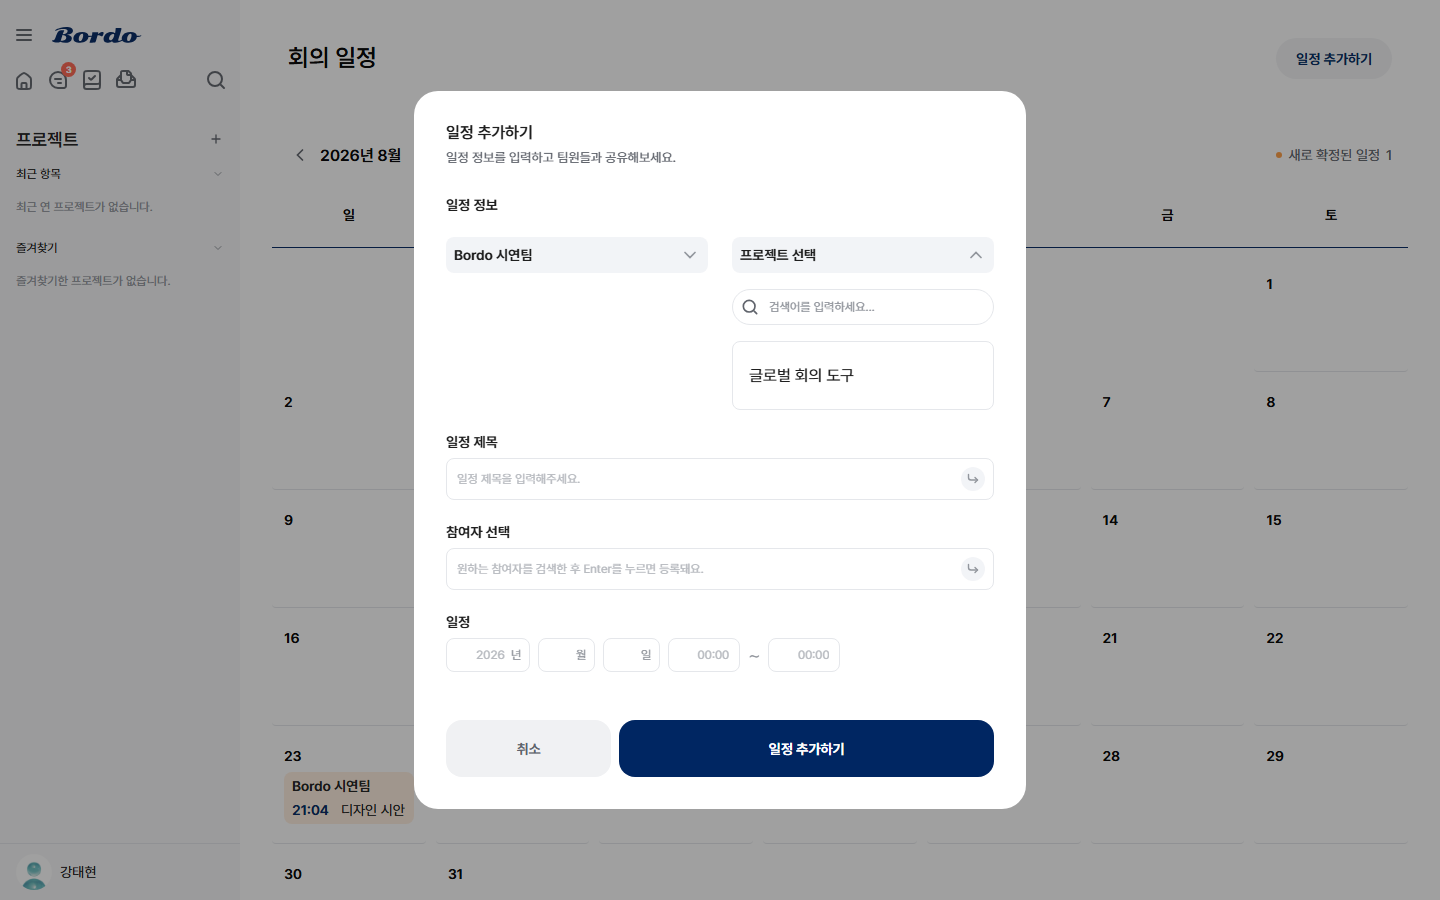
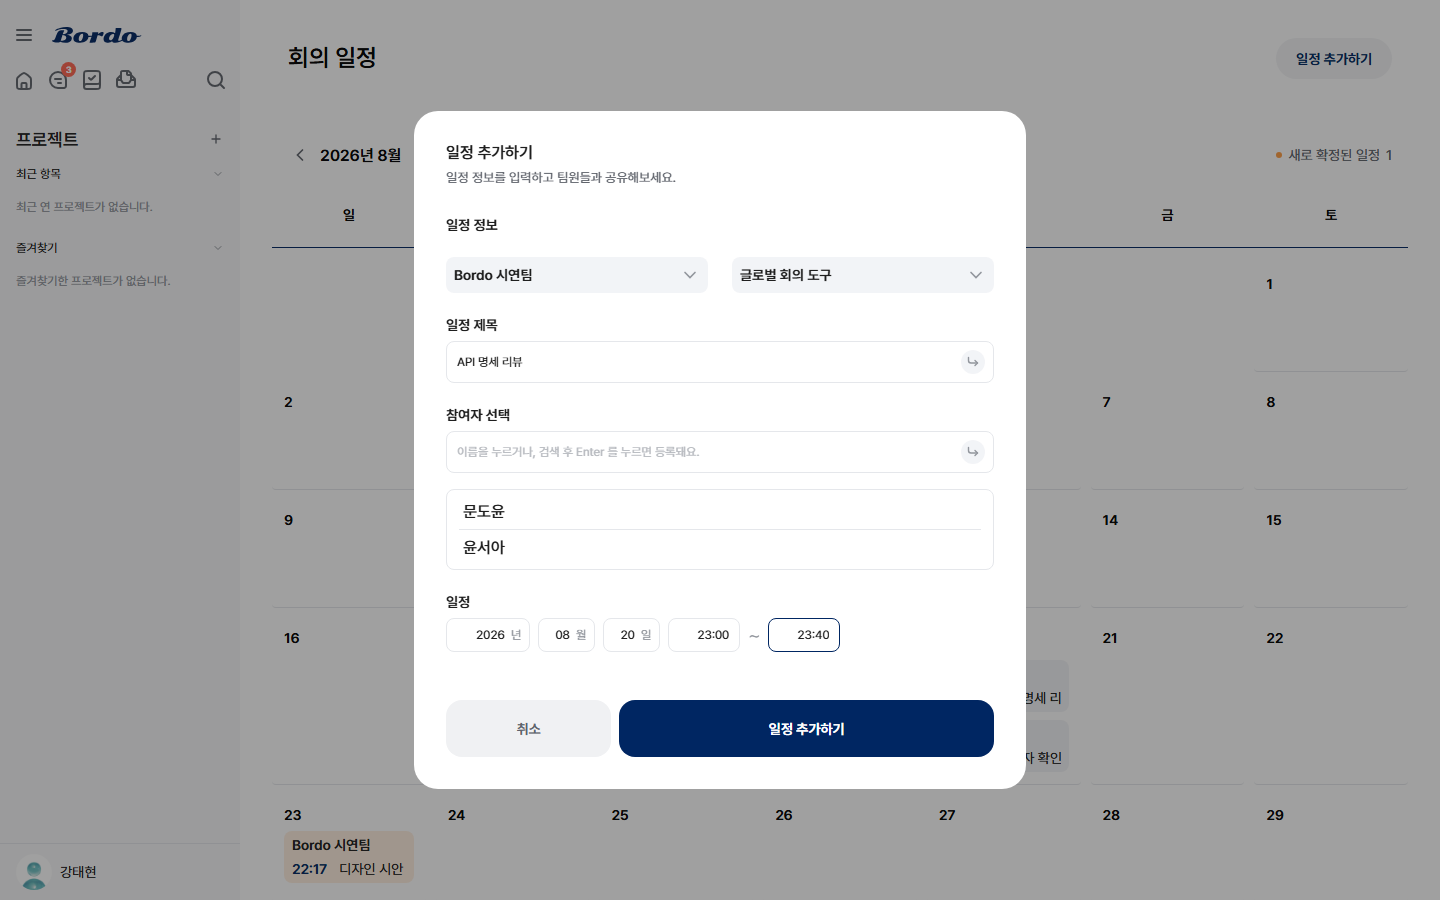
fix(calendars): 일정을 만든 사람을 참여자로 넣는다
화면의 참여자 피커는 **나를 뺀 사람들**을 고르는 자리라, 고른 대로만 넣으면
회의를 만든 사람이 그 회의의 참석자가 아니게 됩니다. 방금 만든 회의를 열지도,
불참 등록을 하지도 못하고 `참석자가 아닙니다` 만 돌아옵니다.

- `participant_ids` 를 보냈을 때만 해당됩니다. 안 보내면 지금까지처럼 전원입니다
- 시연 문서의 장면 4 설명도 실제 화면에 맞춰 고쳤습니다(이름을 눌러 넣기,
  본인은 목록에 없음)
- MCP 장면에 계정 화면 사진과 `claude mcp add` 명령을 붙였습니다

diff --git a/apps/calendars/views.py b/apps/calendars/views.py
@@ -102,6 +102,12 @@ def events(request, project_id):
             raise BordoError("PROJECT_ACCESS_DENIED",
                              "프로젝트 참여자만 일정에 넣을 수 있습니다.",
                              details={"not_in_project": outsiders})
+        # 만든 사람은 언제나 들어갑니다.
+        #
+        # 화면의 참여자 피커는 **나를 뺀 사람들**을 고르는 자리라, 고른 대로만
+        # 넣으면 회의를 만든 사람이 그 회의의 참석자가 아니게 됩니다. 회의를
+        # 열지도, 불참 등록을 하지도 못하고 `참석자가 아닙니다` 만 돌아옵니다.
+        valid.add(str(request.user.id))
     else:
         valid = set(map(str, ProjectMember.objects.filter(project=project)
                         .values_list("user_id", flat=True)))

diff --git a/docs/시연-시나리오.md b/docs/시연-시나리오.md
@@ -218,7 +218,9 @@ cd d:\Develop\GitHub\backend
    엉뚱한 팀의 회의가 됩니다
    - 팀 `Bordo 시연팀` · 프로젝트 `글로벌 회의 도구`
    - 제목 **`API 명세 리뷰`**
-   - 참여자 — 본인(강태현)은 자동입니다. **윤서아 · 문도윤**을 검색해 Enter
+   - 참여자 — 칸 아래에 팀원 이름이 떠 있습니다. **윤서아 · 문도윤**을 눌러
+     넣으십시오(검색해서 Enter 도 됩니다). **본인은 목록에 없습니다** — 만든
+     사람은 서버가 참석자로 넣습니다
    - **날짜는 오늘, 시각은 지금보다 뒤** ← 여기가 중요합니다
 
    ![채운 모습](images/06-meeting-form-filled.png)
@@ -263,7 +265,19 @@ cd d:\Develop\GitHub\backend
 오는지가 영상에 없으면 "결국 사람이 따로 적어 둬야 하는 도구" 로 읽힙니다.
 
 1. 웹 `계정` 화면 → 「개인 AI 연결 (MCP)」 → **`토큰 발급`**
-   (토큰은 한 번만 보입니다. 미리 발급해 두고 이 컷만 다시 찍어도 됩니다)
+
+   ![계정 화면의 MCP 칸](images/10-account-mcp.png)
+
+   토큰은 **발급 직후 한 번만** 보입니다. 응답에 함께 오는 `setup_command` 를
+   그대로 붙여 넣으면 됩니다.
+
+   ```
+   claude mcp add --transport http bordo http://127.0.0.1:8000/mcp      --header "Authorization: Bearer brd_..."
+   ```
+
+   > 붙이는 것까지 찍으면 20초를 넘깁니다. **미리 붙여 두고** 이 화면과 아래
+   > 대화창만 찍는 편이 낫습니다. 다시 찍을 때는 `폐기` 로 미발급 상태로
+   > 되돌릴 수 있습니다.
 2. 개인 AI 대화창(Claude Code · Cursor)에서 평소 하던 말투로
 
    > "MCP 연동 붙였어. 기록해 줘"
